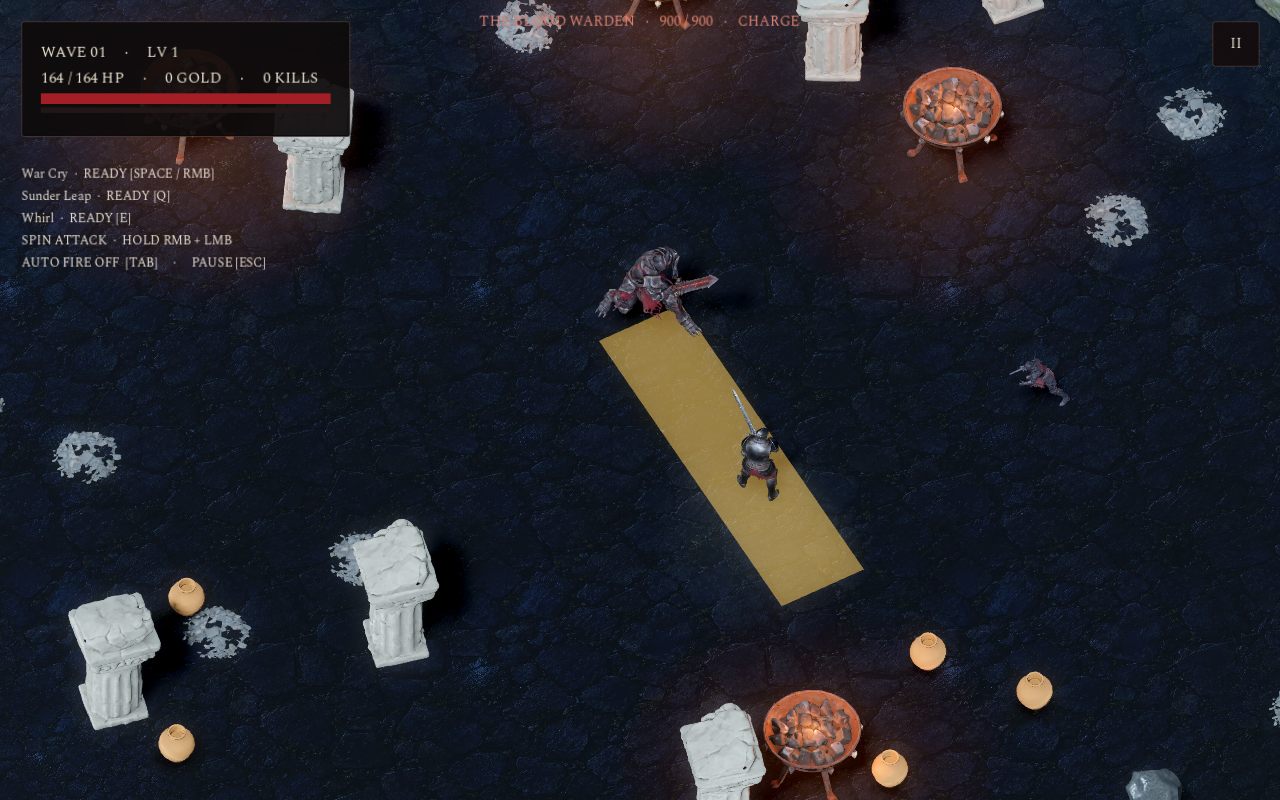
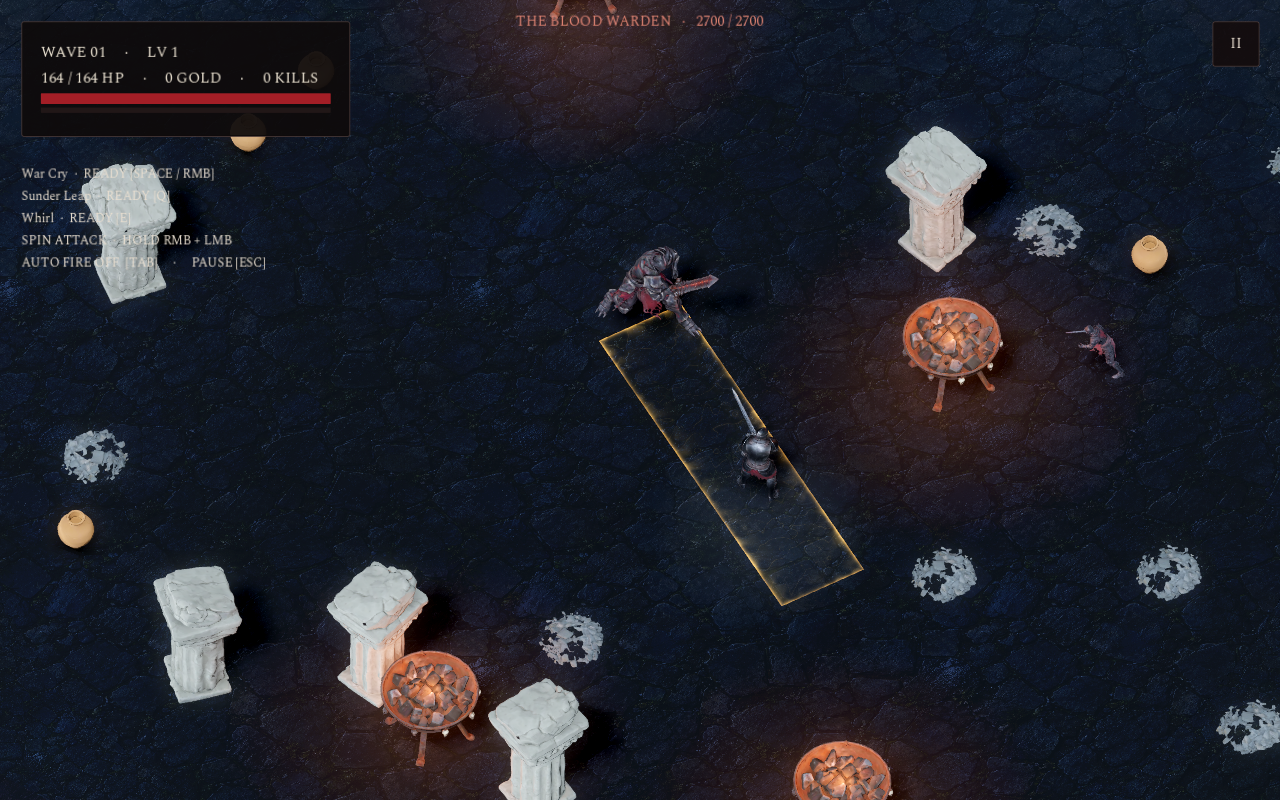
Triple boss health and replace flat attack warnings with ember VFX

diff --git a/art/enemies/mixamo/boss/README.md b/art/enemies/mixamo/boss/README.md
@@ -33,3 +33,7 @@ Validation:
 - `godot --headless --path godot --script res://tests/enemy_asset_test.gd`
 - `godot --path godot --script res://tools/preview_boss.gd` captures four warnings.
 - `godot --path godot --script res://tools/preview_boss.gd -- --play` starts a boss fight.
+
+The boss now has 2700 base HP. The HUD displays only its name and health.
+Ground tells use an additive procedural ember shader: fixed collision borders,
+flickering inner glow and faint fractures; impacts expand and fade with sparks.
